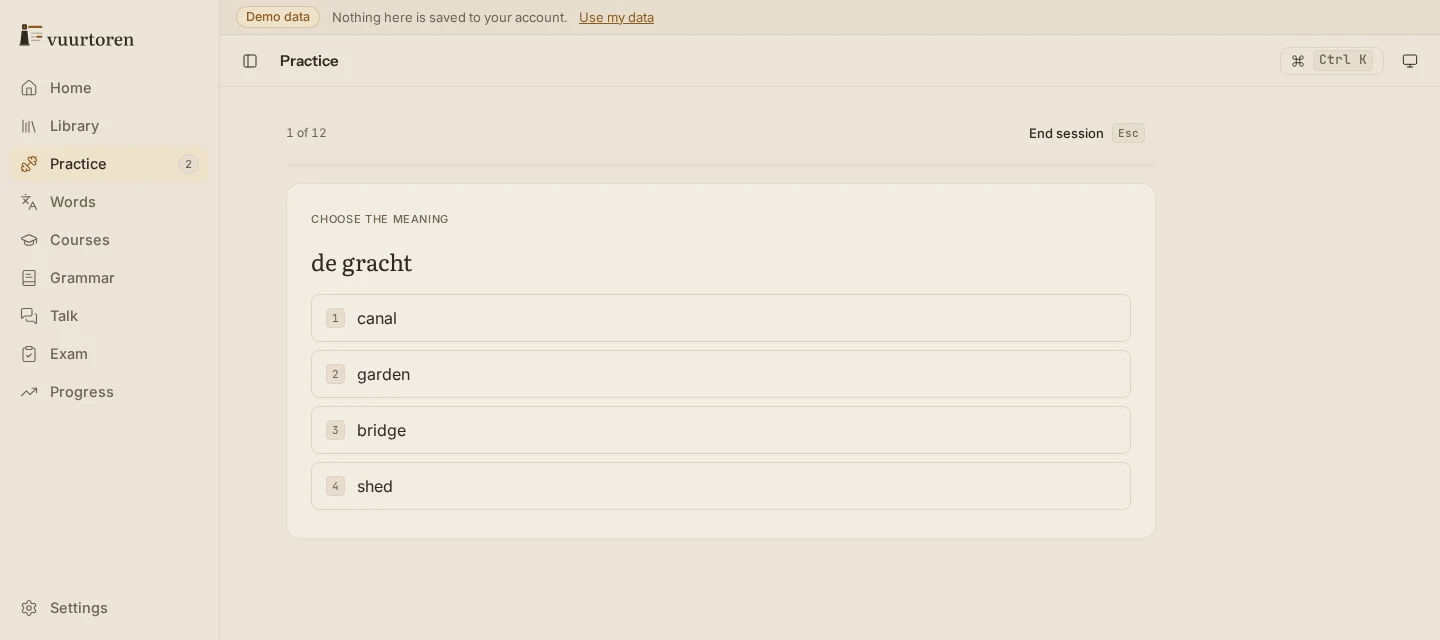
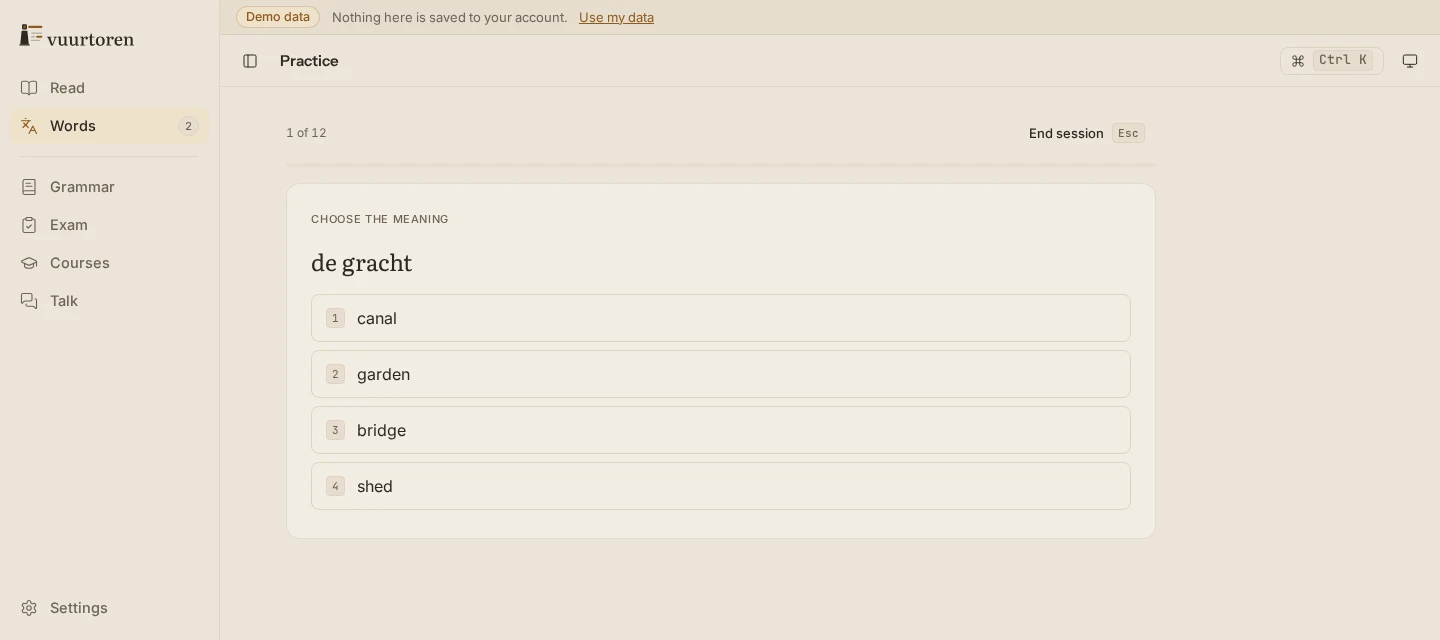
docs: design system for the two rooms, Read and Words, Settings and the easy start; new screenshots

diff --git a/apps/web/e2e/screenshots.e2e.ts b/apps/web/e2e/screenshots.e2e.ts
@@ -14,8 +14,12 @@ interface Shot {
   open: (page: Page) => Promise<void>;
 }
 
+/** A main navigation link (its name may carry a due count after the label). */
 const nav = (page: Page, label: string) =>
-  page.getByRole("navigation").getByRole("link", { name: label, exact: true }).click();
+  page
+    .getByRole("navigation", { name: "Main" })
+    .getByRole("link", { name: new RegExp(`^${label}`) })
+    .click();
 
 const SHOTS: Shot[] = [
   {

diff --git a/docs/algorithms.md b/docs/algorithms.md
@@ -699,7 +699,7 @@ Imported decks bring their own steps, limits and target retention.
 
 **Queue** (`nativeQueue` in `packages/db/src/cards.ts`): cards due now first (learning, relearning and review, earliest first), then new cards in each deck's order within its daily limit. When nothing else is left, learning cards due within 20 minutes come forward.
 
-**Related cards apart.** Once a card of a note, or of another note of the same word (same key), is answered on a study day, that note's and word's other new and review cards wait for the next day. In one session only the first of them is offered. Learning and relearning steps go on. The counts on the badge and Home follow the same rule.
+**Related cards apart.** Once a card of a note, or of another note of the same word (same key), is answered on a study day, that note's and word's other new and review cards wait for the next day. In one session only the first of them is offered. Learning and relearning steps go on. The counts on the Words badge and in Today on Read follow the same rule.
 
 #### 9.2.1 Workload
 
@@ -752,7 +752,7 @@ In native mode, what you do with a word outside the review screen reaches its ca
 
 Front, then Space or **Show answer**, then Again / Hard / Good / Easy (keys 1–4; Space or Enter is Good), Z or **Undo** takes back the latest answer, then the one before, also after a reload or on another day (the newest answer given on the review screen of this device, `nativeLastReview`, as long as no later answer to that card came from another device). The card comes back with its answer hidden. When another device's answer to the card arrives after an undo, the card is replayed from its remaining answers in order, so that answer still counts. A vocabulary card whose template shows the word on the front is laid out by Vuurtoren: the word and its sentence on the front, the meaning and the sentence translation on the back. Clozes and other templates are rendered from the note type's own template (fields, conditional sections, `FrontSide`, clozes, hints) and shown through an allow-list sanitiser: formatting tags only, no scripts, styles, frames, forms or event handlers, and only the card's own images. Sounds get a play button. After the answer, a sentence with the word from your own texts is shown when one exists.
 
-**Your words and your reviews.** In native mode Words has a **Due** view: the words with a card due now (`nativeDueKeys`), earliest first, each with how long ago it came due; with a source chosen, only that text's, unit's or session's words. The word inspector lists the word's latest eight answers under **Your reviews**: the day, the answer and the interval it gave (the card's history replayed; the latest answer shows the due date the card really got). Home's **This week** counts the reviews answered in Vuurtoren per day; an undone answer does not count.
+**Your words and your reviews.** In native mode Words has a **Due** view: the words with a card due now (`nativeDueKeys`), earliest first, each with how long ago it came due; with a source chosen, only that text's, unit's or session's words. The word inspector lists the word's latest eight answers under **Your reviews**: the day, the answer and the interval it gave (the card's history replayed; the latest answer shows the due date the card really got). The activity behind Progress counts the reviews answered in Vuurtoren per day; an undone answer does not count.
 
 ### 9.7 Export to .apkg
 

diff --git a/docs/architecture.md b/docs/architecture.md
@@ -35,9 +35,9 @@ Dutch sentence on its own line followed by its English on a `> ` line.
 part of the starter list, sentence length, one English line per sentence) and with `--write`
 bundles them, with their spaCy analysis, into `content/stories/stories.json`. The web app imports
 the bundle as a chunk of its own (`apps/web/src/services/stories.ts`), precached like the starter
-list. The Library's Stories shelf computes the learner's coverage of each story from the bundled
-analysis (`classifyTokens` and `coverageOf`, the reader's rule); opening a story adds it to the
-Library once as a normal text (source ref `story:<slug>`) with that analysis, so it reads at once
+list. Read's Stories for you shelf computes the learner's coverage of each story from the bundled
+analysis (`classifyTokens` and `coverageOf`, the reader's rule) and puts the learner's level first;
+opening a story adds it to Your texts once as a normal text (source ref `story:<slug>`) with that analysis, so it reads at once
 and offline. Side by side uses the story's English instead of machine translation: the language
 server only pairs its words, and without the server the English shows alone. How to add a story:
 `content/stories/README.md`.
@@ -51,7 +51,8 @@ src/
   shell/              app shell, PageHeader, degraded indicator, sign-in, start screens, auto sync
   screens/            one folder per area where it has several files:
     courses/ exam/ grammar/ onboarding/ reader/ review/ settings/ words/
-    Home, Library, Import, ReaderPage, Practice, Progress, Converse, ...
+    Read (Today, Stories for you, Your texts), Import, ReaderPage, Practice, Progress, Converse, ...
+    words/WordsRoom: the Words tabs (Your words, Review, Practice, Progress) and the level summary
   services/           everything the screens call (AppServices), see below
   storage/            startup mode, tab lock, local.ts (localStorage helpers)
   auth/               sign-in client and sync tokens of a Vuurtoren server
